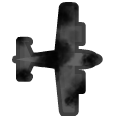
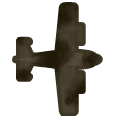
:bento: change corpse

diff --git a/src/model/FadingParticle.java b/src/model/FadingParticle.java
@@ -27,9 +27,7 @@ public class FadingParticle extends Particle {
 	@Override
 	public void render(GraphicsContext gc) {
 		gc.setGlobalAlpha(transparency());
-		gc.setGlobalBlendMode(BlendMode.SCREEN);
 		super.render(gc);
-		gc.setGlobalBlendMode(BlendMode.SRC_OVER);
 		gc.setGlobalAlpha(1);
 	}
 
